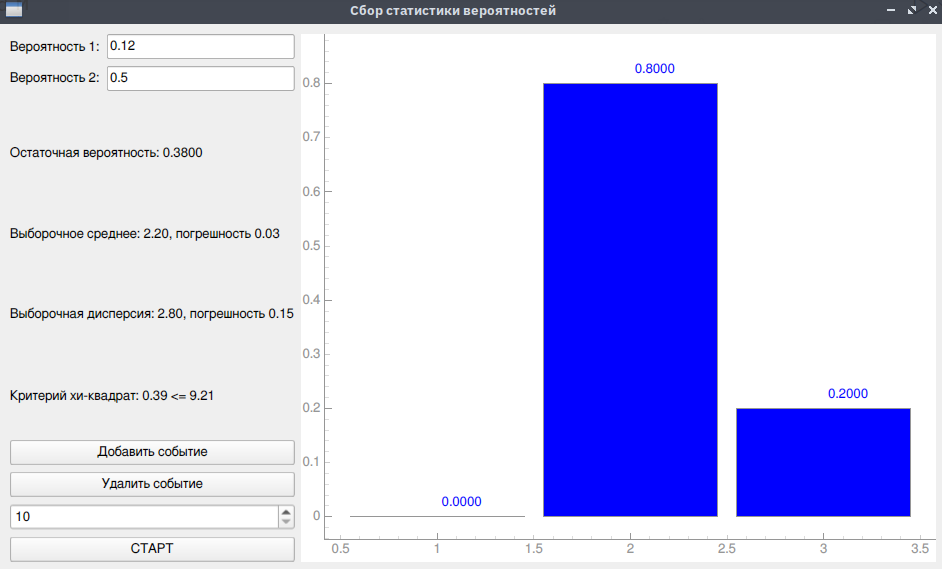
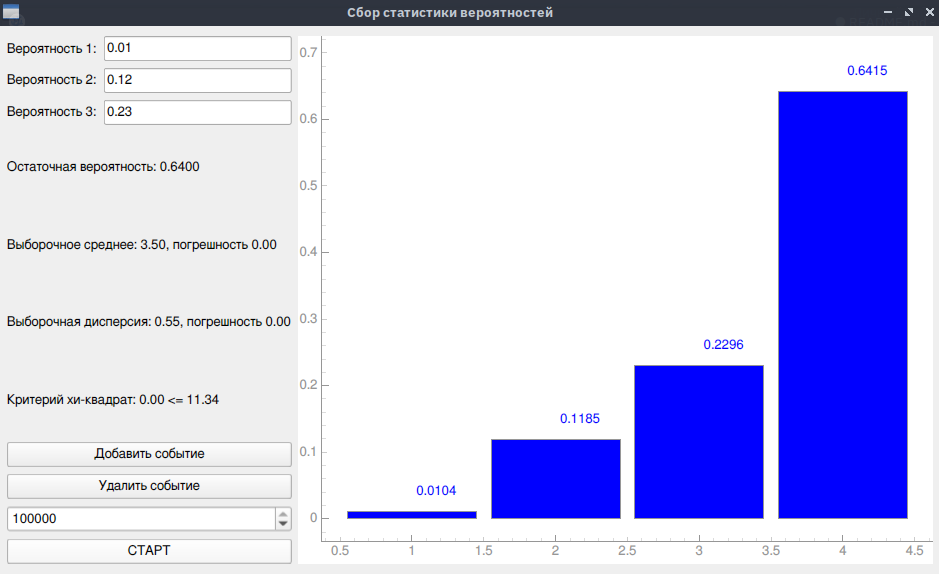
9 fixes

diff --git a/83_9.py b/83_9.py
@@ -40,11 +40,11 @@ class MainWindow(QMainWindow):
         self.remainder_probability_label = QLabel("Остаточная вероятность: ")
         settings.addWidget(self.remainder_probability_label)
 
-        # mean and standard deviation
+        # mean and variance
         self.mean_label = QLabel("Выборочное среднее: ")
         settings.addWidget(self.mean_label)
-        self.stdev_label = QLabel("Выборочная дисперсия: ")
-        settings.addWidget(self.stdev_label)
+        self.var_label = QLabel("Выборочная дисперсия: ")
+        settings.addWidget(self.var_label)
 
         # chi squared
         self.chi_label = QLabel("Критерий хи-квадрат: ")
@@ -129,10 +129,10 @@ class MainWindow(QMainWindow):
         MEAN_ERROR = np.abs((MEAN - EMP_MEAN) / MEAN)
         self.mean_label.setText(f"Выборочное среднее: {EMP_MEAN:.2f}, погрешность {MEAN_ERROR:.2f}")
 
-        ST_DEV = np.abs(sum(p*x**2 for x,p in enumerate(THEORY, 1)) - MEAN)
-        EMP_DEV = np.abs(sum(p*x**2 for x,p in enumerate(DATA, 1)) - EMP_MEAN)
-        DEV_ERROR = np.abs((ST_DEV - EMP_DEV) / ST_DEV)
-        self.stdev_label.setText(f"Выборочная дисперсия: {EMP_DEV:.2f}, погрешность {DEV_ERROR:.2f}")
+        VARIANCE = sum(p*(x - MEAN)**2 for x,p in enumerate(THEORY, 1))
+        EMP_VARIANCE = sum(p*(x - EMP_MEAN)**2 for x,p in enumerate(DATA, 1))
+        VAR_ERROR = np.abs((VARIANCE - EMP_VARIANCE) / VARIANCE)
+        self.var_label.setText(f"Выборочная дисперсия: {EMP_VARIANCE:.2f}, погрешность {VAR_ERROR:.2f}")
     
     def chisq(self, DATA, THEORY, N_TRIALS):
         CHI = sum((observed - expected)**2 / expected for observed,expected in zip(DATA, THEORY))

diff --git a/README.md b/README.md
@@ -4,5 +4,5 @@
 8.3 Сбор статистики вероятностей
 9 Моделирование с оценкой методом хи-квадрат
 ![alt text](image.png)
-![alt text](image-2.png)
 ![alt text](image-1.png)
+![alt text](image-2.png)
